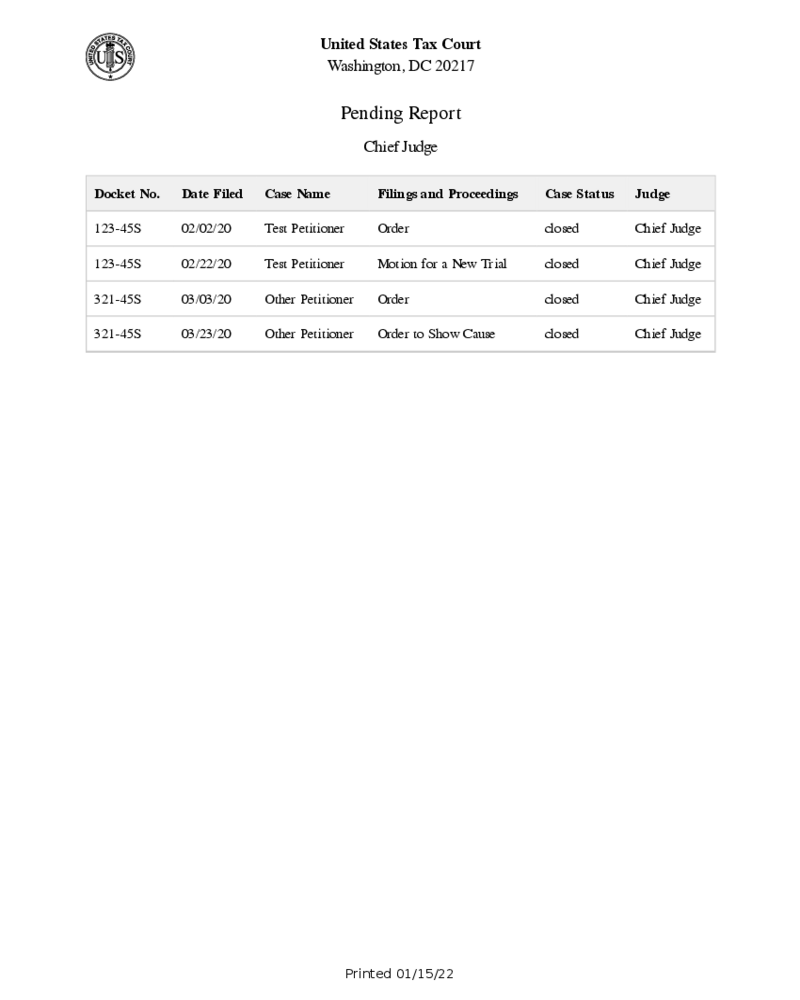
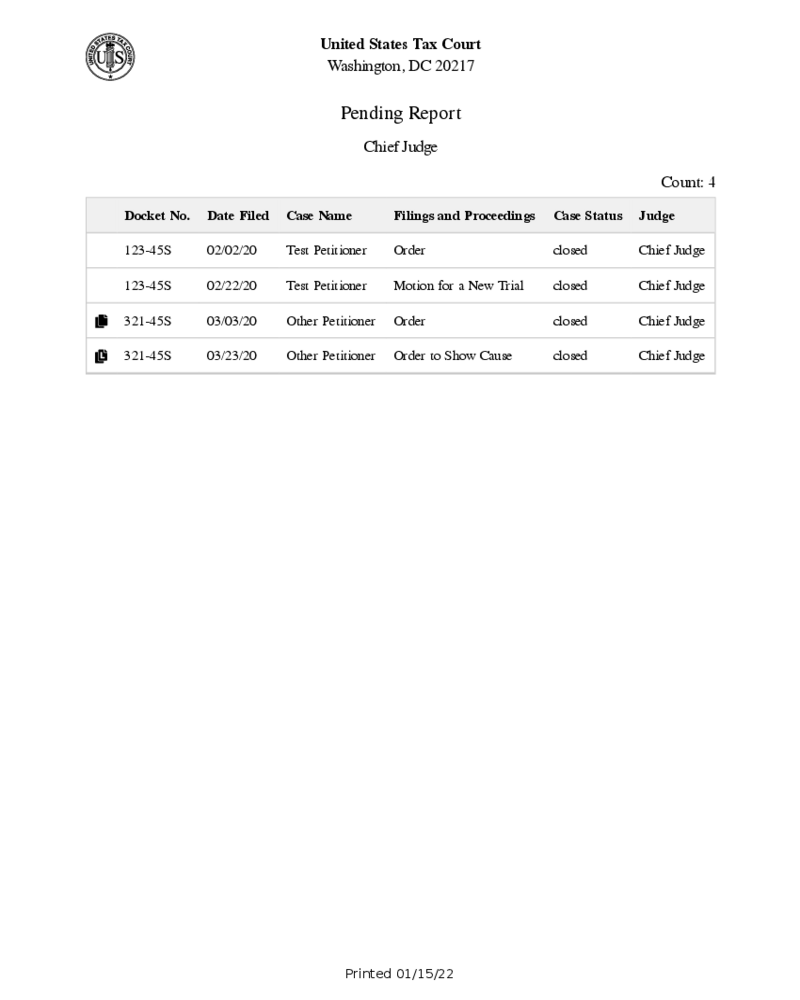
9784: update pdf image and test

Changed region(s): [[0.0938, 0.155, 0.9062, 0.372]]

diff --git a/shared/src/business/utilities/documentGenerators/pendingReport.test.ts b/shared/src/business/utilities/documentGenerators/pendingReport.test.ts
@@ -34,6 +34,7 @@ describe('pendingReport', () => {
               docketNumberWithSuffix: '321-45S',
               formattedFiledDate: '03/03/20',
               formattedName: 'Order',
+              inConsolidatedGroup: true,
               status: 'closed',
             },
             {
@@ -42,6 +43,8 @@ describe('pendingReport', () => {
               docketNumberWithSuffix: '321-45S',
               formattedFiledDate: '03/23/20',
               formattedName: 'Order to Show Cause',
+              inConsolidatedGroup: true,
+              inLeadCase: true,
               status: 'closed',
             },
           ],

diff --git a/web-client/src/presenter/computeds/formattedPendingItems.ts b/web-client/src/presenter/computeds/formattedPendingItems.ts
@@ -13,10 +13,6 @@ export const formatPendingItem = (item, { applicationContext }) => {
     });
   }
 
-  result.docketNumberWithSuffix = `${item.docketNumber}${
-    item.docketNumberSuffix || ''
-  }`;
-
   result.formattedFiledDate = applicationContext
     .getUtilities()
     .formatDateString(result.receivedAt, 'MMDDYY');
